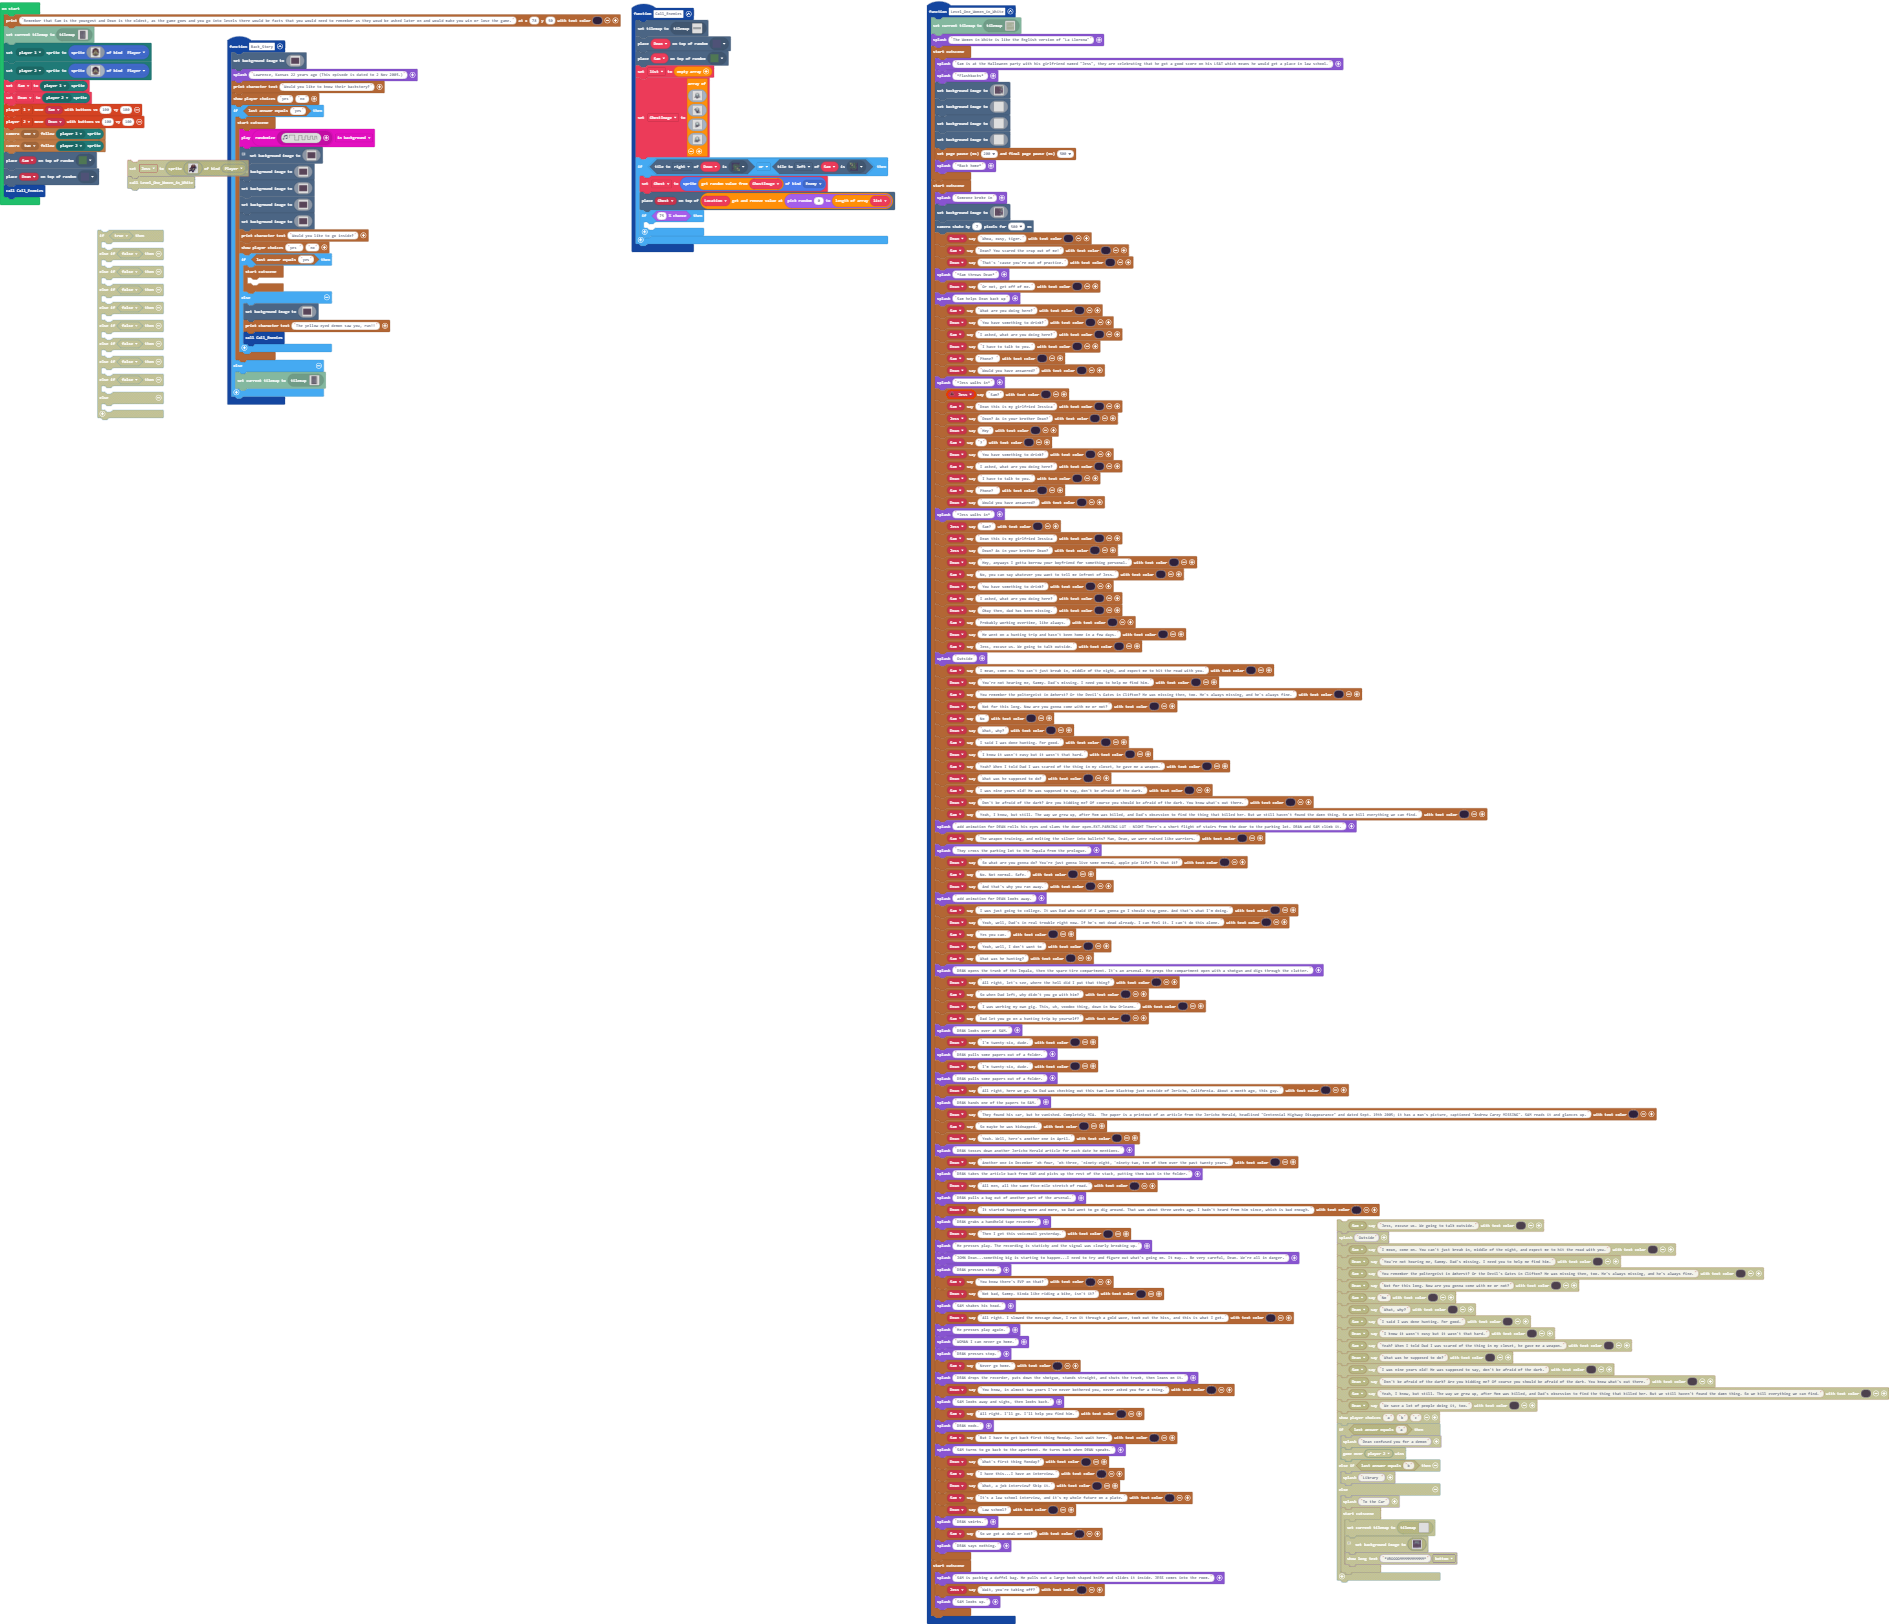
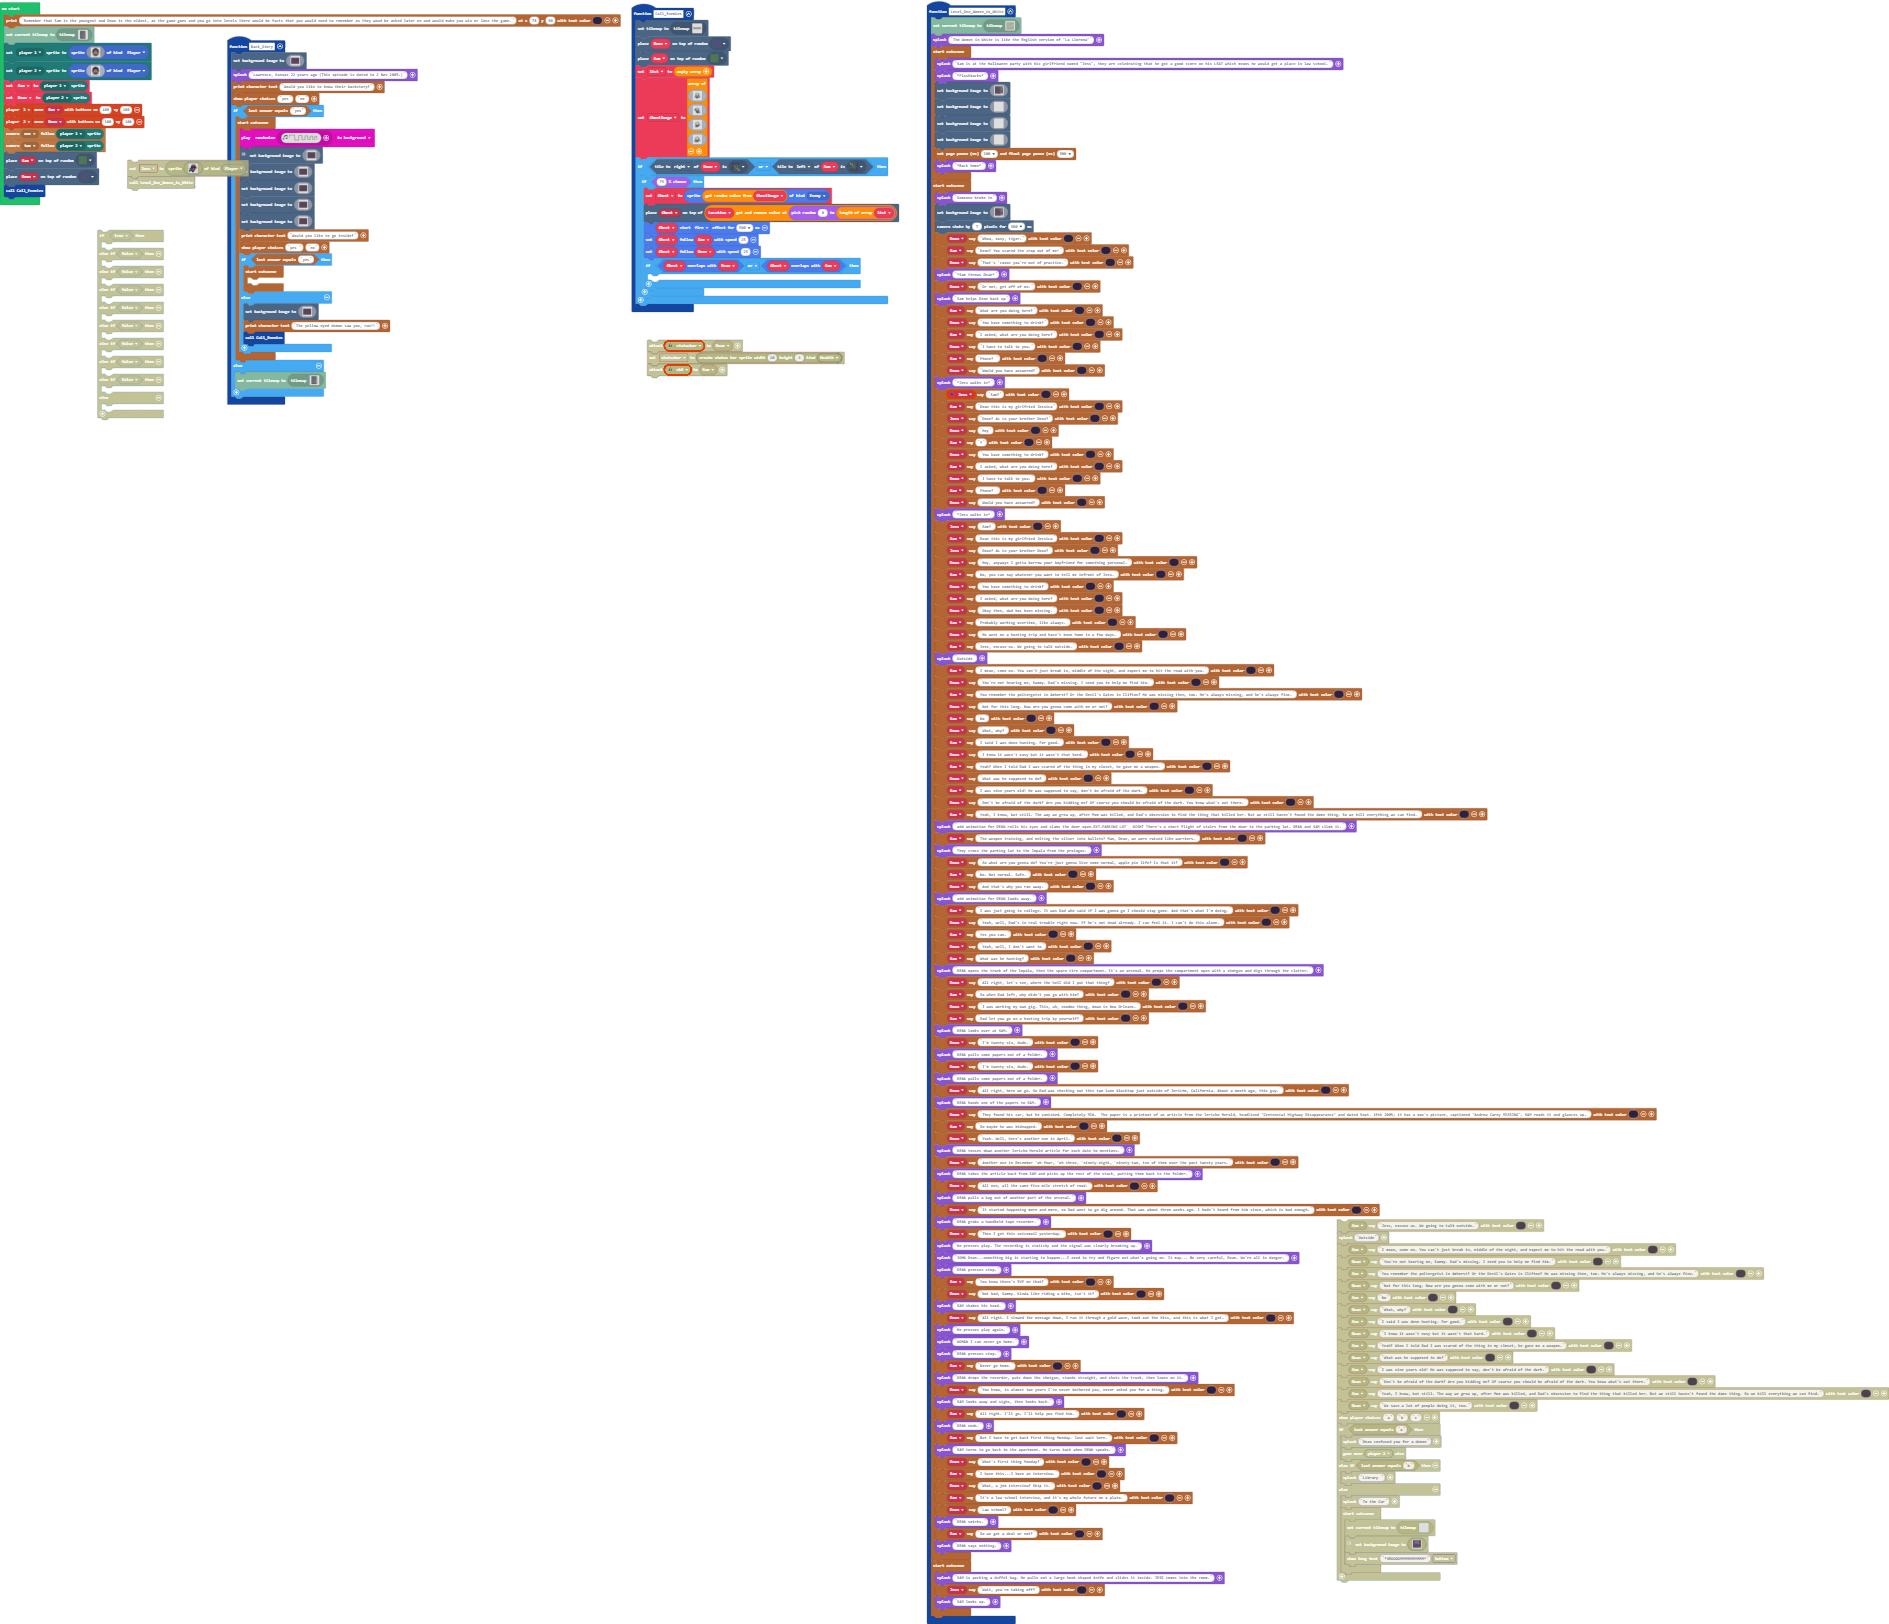
Update main.blocks, main.ts

Changed region(s): [[0.3123, 0.0924, 0.4997, 0.2463]]

diff --git a/main.ts b/main.ts
@@ -987,11 +987,16 @@ function Call_Enemies () {
         `
     ]
     if (Dean.tileKindAt(TileDirection.Right, sprites.dungeon.greenInnerNorthWest) || Sam.tileKindAt(TileDirection.Left, sprites.dungeon.greenInnerSouthEast)) {
-        let Location: tiles.Location[] = []
-        Ghost = sprites.create(GhostImage._pickRandom(), SpriteKind.Enemy)
-        tiles.placeOnTile(Ghost, Location.removeAt(randint(0, list.length)))
         if (Math.percentChance(75)) {
-        	
+            let Location: tiles.Location[] = []
+            Ghost = sprites.create(GhostImage._pickRandom(), SpriteKind.Enemy)
+            tiles.placeOnTile(Ghost, Location.removeAt(randint(0, list.length)))
+            Ghost.startEffect(effects.fire, 500)
+            Ghost.follow(Sam, 25)
+            Ghost.follow(Dean, 25)
+            if (Ghost.overlapsWith(Dean) || Ghost.overlapsWith(Sam)) {
+            	
+            }
         }
     }
 }
